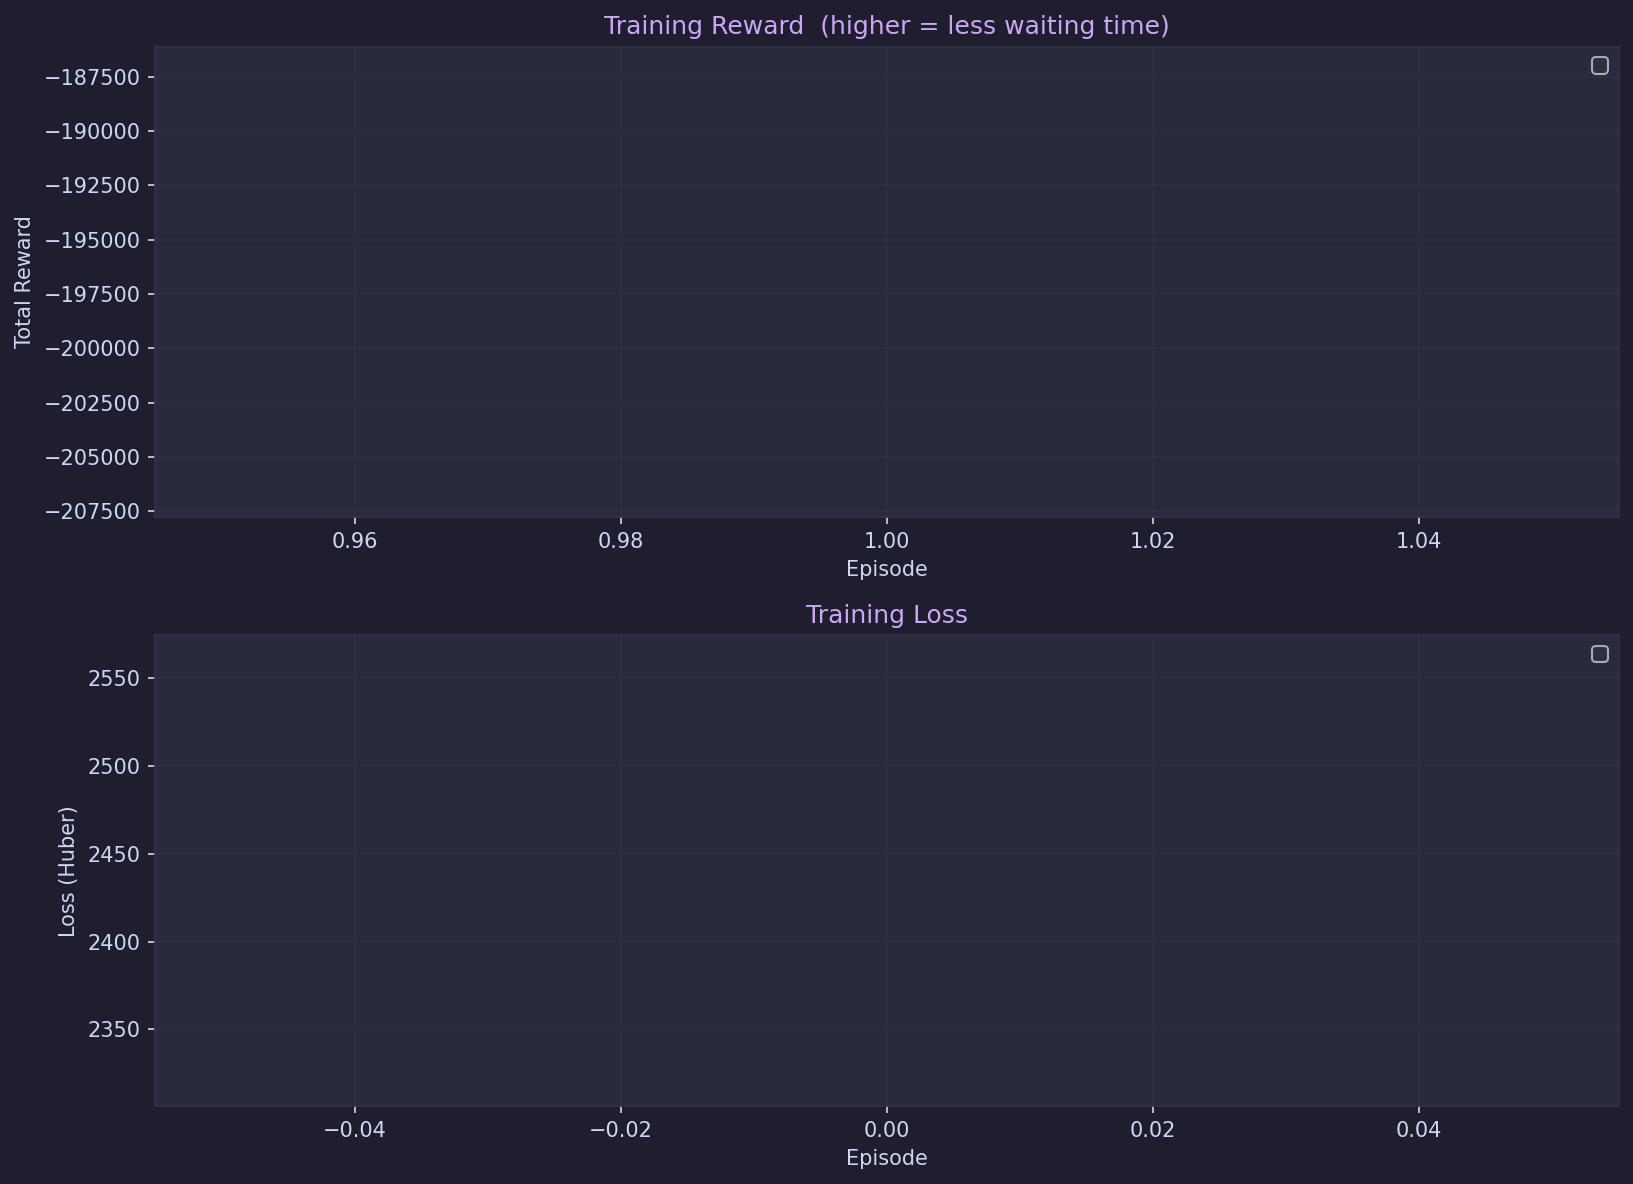
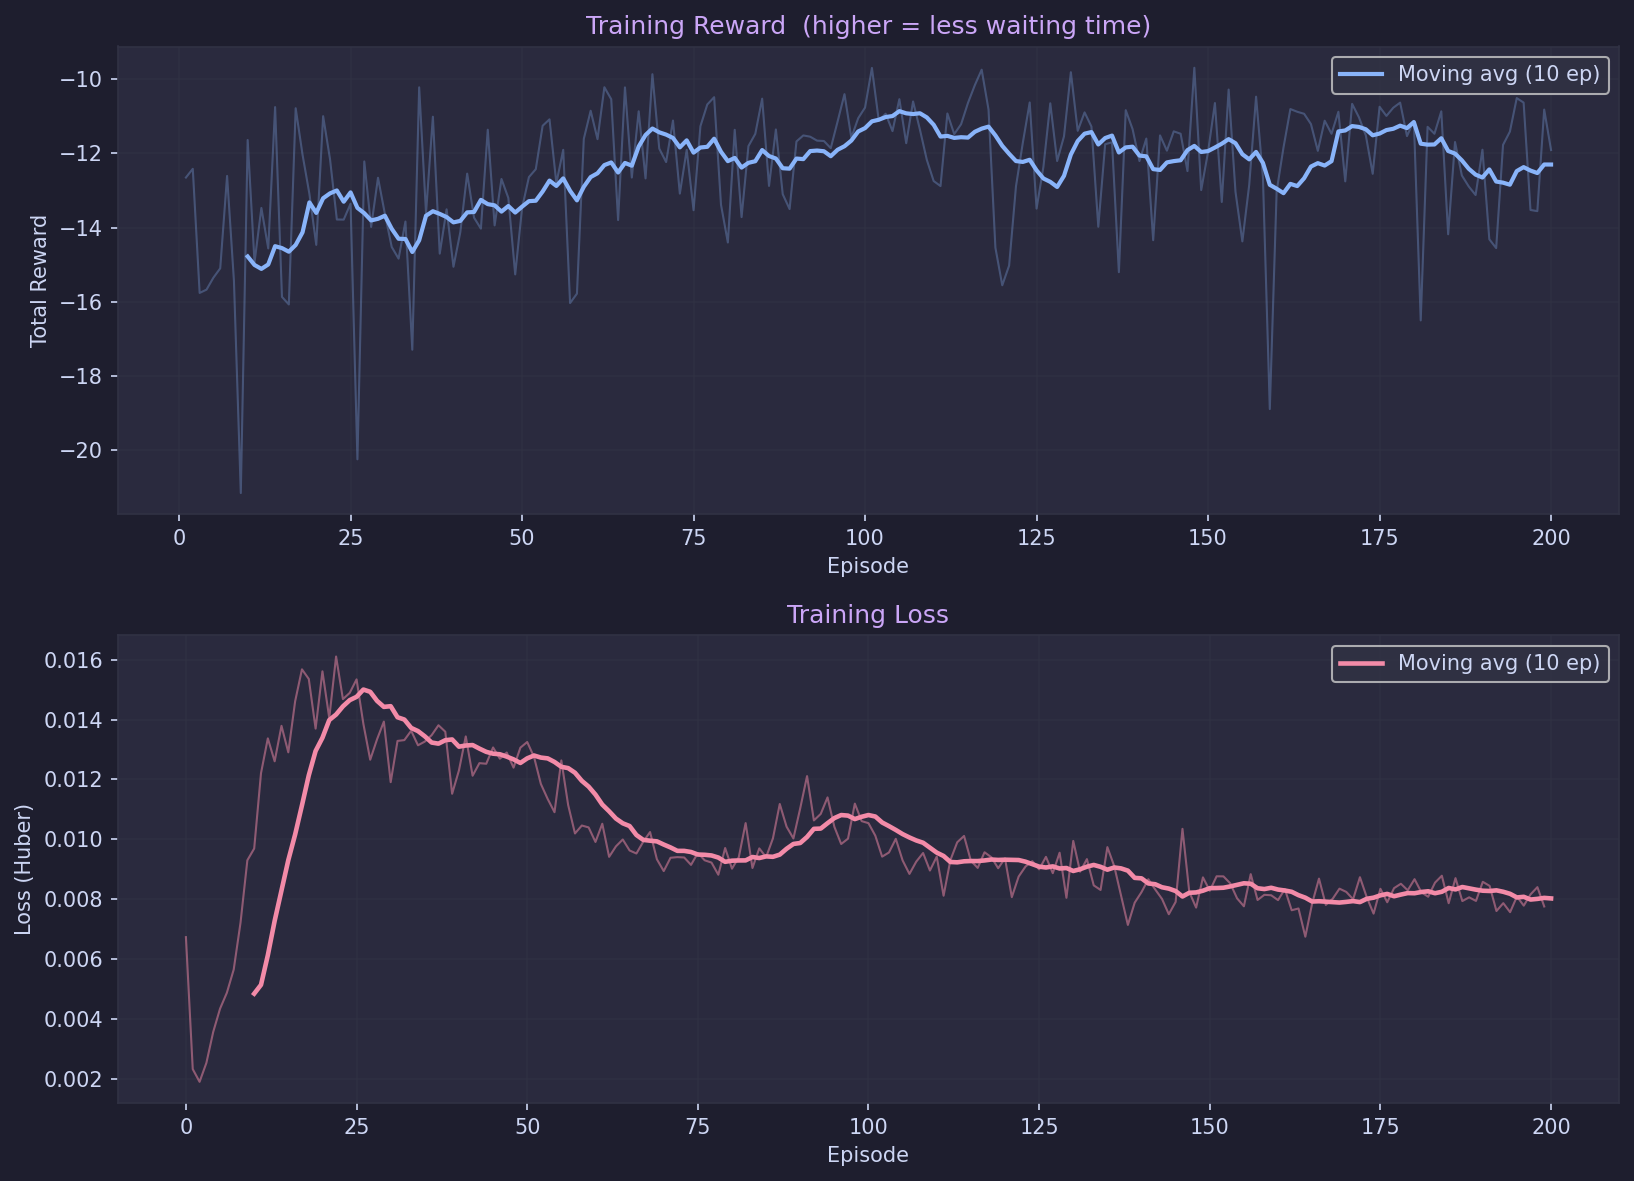
now able to run simulation better

diff --git a/env/traffic_env.py b/env/traffic_env.py
@@ -135,7 +135,8 @@ class TrafficEnv:
         )
 
     def _get_reward(self) -> float:
-        return -sum(traci.lane.getWaitingTime(l) for l in self.LANES)
+        # Using halting number (proxy for waiting time rate) is more stable than accumulated waiting time
+        return -sum(traci.lane.getLastStepHaltingNumber(l) for l in self.LANES)
 
     # ── Gym-style API ─────────────────────────────────────────────────────────
     def reset(self) -> np.ndarray:
@@ -151,18 +152,21 @@ class TrafficEnv:
         return self._get_state()
 
     def step(self, action: int):
+        reward = 0.0
+
         # 1. Optionally switch phases
         if action == 1 and self._phase_time >= self.MIN_GREEN:
             yellow = self.GREEN_PHASES[self._green_idx] + 1
             self._set_phase(yellow)
             for _ in range(self.YELLOW_DURATION):
                 traci.simulationStep()
+                reward += self._get_reward()  # Capture penalty during yellow
+
             self._green_idx = 1 - self._green_idx
             self._set_phase(self.GREEN_PHASES[self._green_idx])
             self._phase_time = 0.0
 
         # 2. Advance one RL timestep
-        reward = 0.0
         for _ in range(self.STEP_SIZE):
             traci.simulationStep()
             reward += self._get_reward()

diff --git a/agent/dqn_agent.py b/agent/dqn_agent.py
@@ -70,7 +70,7 @@ class DQNAgent:
         gamma: float = 0.95,
         epsilon_start: float = 1.0,
         epsilon_end: float = 0.01,
-        epsilon_decay: float = 0.995,
+        epsilon_decay: float = 0.9995,
         batch_size: int = 64,
         target_update: int = 100,
         buffer_cap: int = 20_000,
